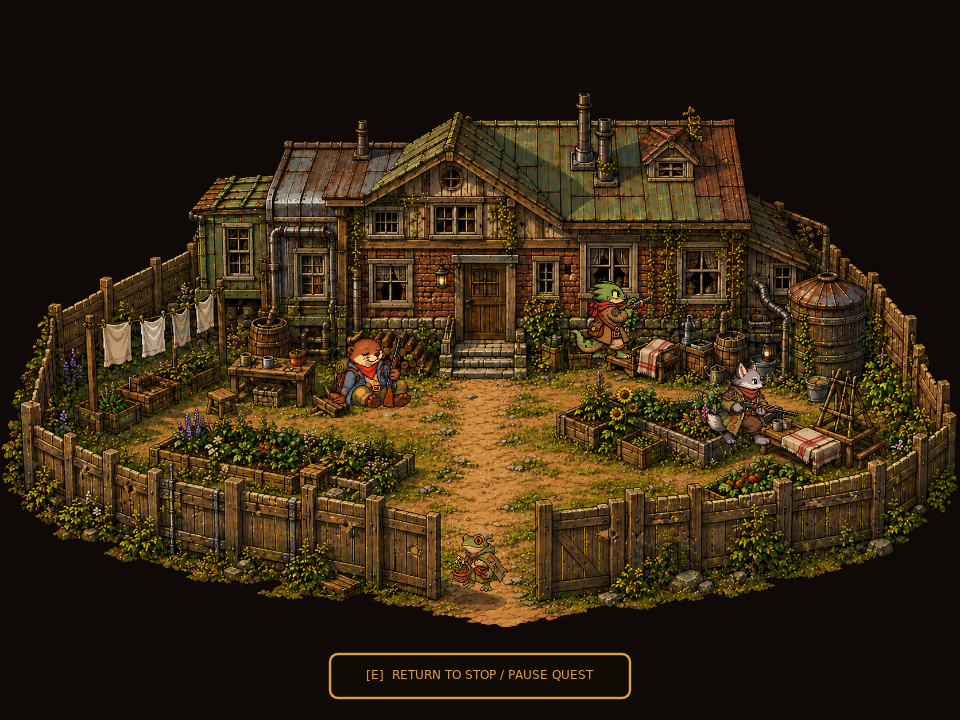
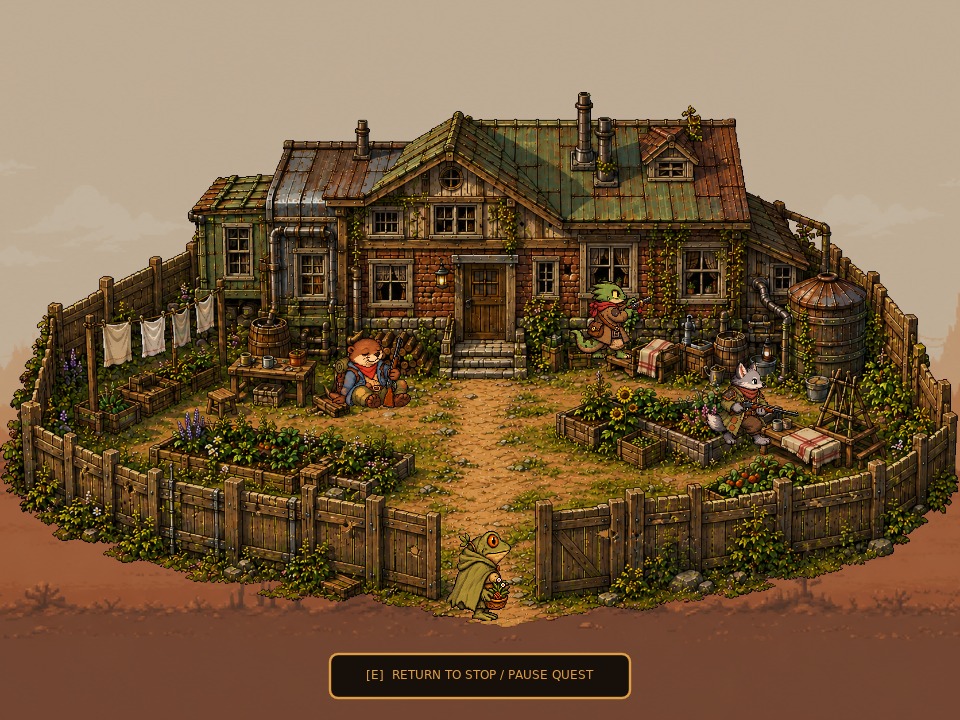
Polish Last Stand shootout presentation

diff --git a/docs/SHOOTOUT_REVIEW.md b/docs/SHOOTOUT_REVIEW.md
@@ -35,7 +35,7 @@ Scout approaches → Offer → Escort → Backyard → Interior → Choose windo
 
 ![Current escort transition](shootout-review/00-escort.png)
 
-**Current experience.** An approximately eight-second travel transition shows the scout and player crossing in front of the distant relay view; the backyard appears toward the end. It can be skipped. Reduced-motion mode holds the movement still.
+**Current experience.** An approximately eight-second travel transition shows the scout and player crossing in front of the distant relay view; the backyard appears toward the end. Both now use their directional walk and idle animation sets at a matching scale. The walking frames advance with the distance they travel, and both face the direction of the journey. It can be skipped. Reduced-motion mode holds them together in their directional idle poses.
 
 **Review focus.** Journey length, clarity, and visual tone.
 
@@ -43,7 +43,7 @@ Scout approaches → Offer → Escort → Backyard → Interior → Choose windo
 
 ![Current backyard scene](shootout-review/01-backyard.png)
 
-**Current experience.** The player can walk around the fenced yard. The back door enters the house. The scout is on the left; the wounded interaction is on the right. The gate at the bottom returns the player to the original stop and **pauses** an unfinished defense. The offer can be resumed through the scout at that stop.
+**Current experience.** The fenced yard now sits over the location's distant landscape, filling the space beyond the house and fence. The player is drawn at a scale comparable to the defenders. The back door enters the house. The scout is on the left; the wounded interaction is on the right. The gate at the bottom returns the player to the original stop and **pauses** an unfinished defense. The offer can be resumed through the scout at that stop.
 
 **Optional branch.** Helping the wounded opens the existing first-aid activity. Completing it permanently marks the treatment done and restores 12 points of position integrity, up to 100. It also makes an extra reward possible at the end.
 
@@ -53,7 +53,7 @@ Scout approaches → Offer → Escort → Backyard → Interior → Choose windo
 
 ![Current interior with two front windows](shootout-review/02-interior.png)
 
-**Current experience.** The room is walkable. The left window belongs to Guard Fox, the right to Gecko Ranger. The player can also talk to them and use the back door. Interacting near a window starts a roughly 0.75-second defender handoff, then opens the shooting view. Pressing Escape during the handoff cancels it.
+**Current experience.** The room is walkable, and the player keeps the same character scale after entering. The left window belongs to Guard Fox, the right to Gecko Ranger. The player can also talk to them and use the back door. Interacting near a window starts a roughly 0.75-second defender handoff, then opens the shooting view. Pressing Escape during the handoff cancels it.
 
 **Review focus.** Furniture and damage; whether each window reads as usable; defender placement; the handoff animation.
 
@@ -137,6 +137,8 @@ Each phase completion lowers enemy morale by 6. Staying actively exposed reduces
 **Review focus.** Whether the resident check feels necessary; reward amount and presentation; what the optional treatment should change.
 
 ## S15 — Stay or return
+
+![Current return transition with both travelers facing left](shootout-review/09-return.png)
 
 **Current experience.** The reward screen offers a chance to remain in the house or start the return trip. The player can also leave through the backyard gate after claiming the reward. The return transition lasts about five seconds and can be skipped. It restores the original stop and approximate player position. The quest then stays complete and does not repeat in that playthrough.
 
